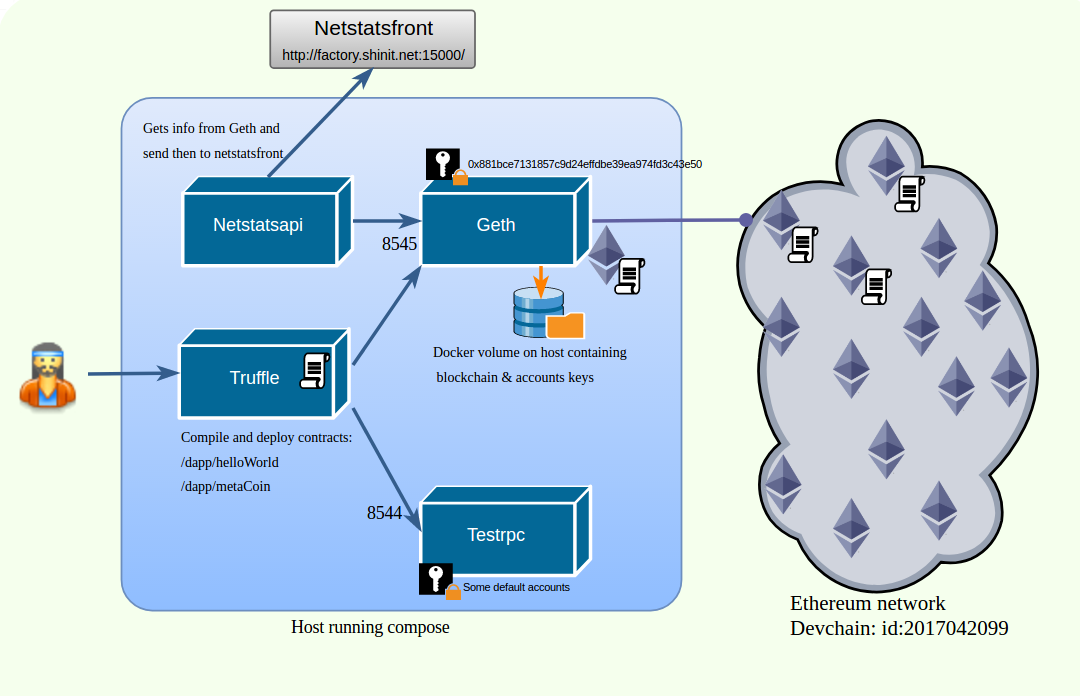
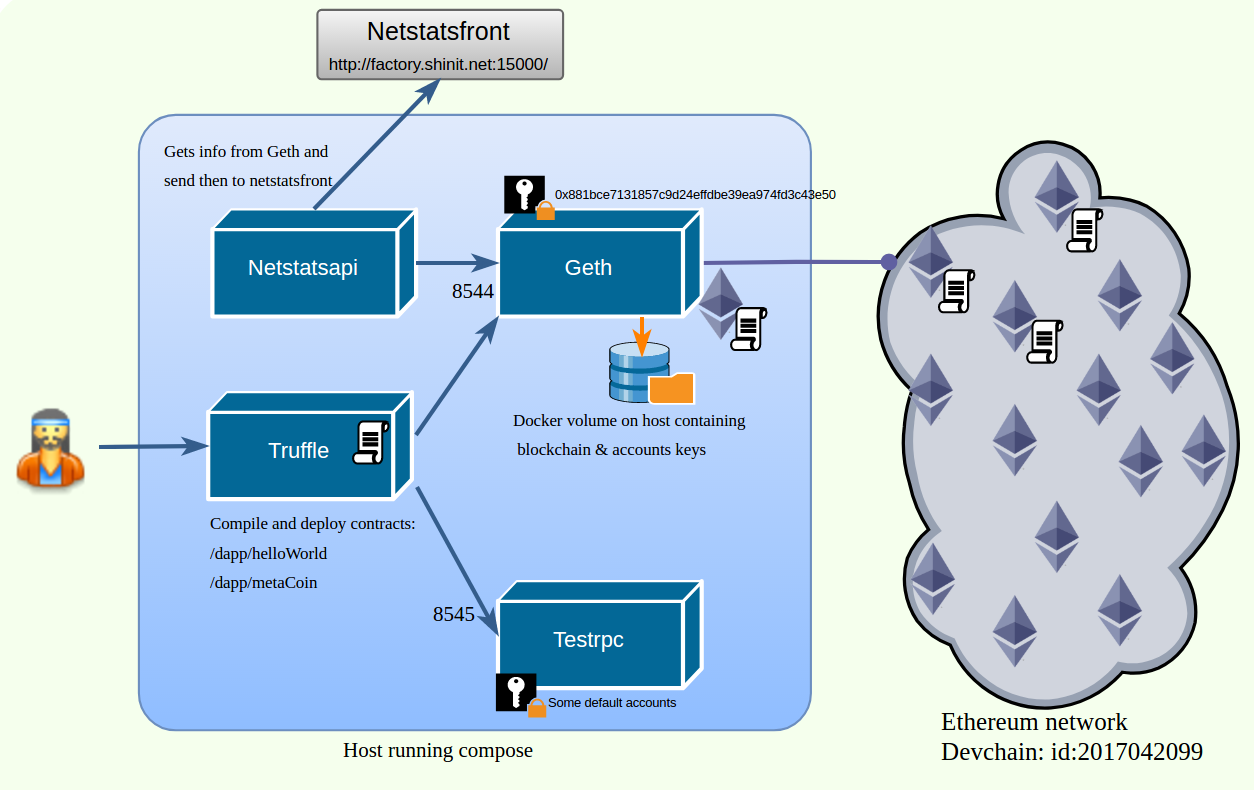
Add pic

Changed region(s): [[0.0, 0.0, 1.0, 0.9655]]

diff --git a/dapp/counter/test/counter.js b/dapp/counter/test/counter.js
@@ -1,0 +1,19 @@
+var Counter = artifacts.require("./Counter.sol");
+
+contract('Counter', function(accounts) {
+  it("Defaut counter should be 0", function() {
+    return Counter.deployed().then(function(instance) {
+      return instance.getCount();
+    }).then(function(value) {
+      assert.equal(value, "0", "Defaut counter should be 0");
+    });
+  });
+  it("One increment from 0 should be 1", function() {
+    return Counter.deployed().then(function(instance) {
+      instance.increment();
+      return instance.getCount();
+    }).then(function(value) {
+      assert.equal(value, "1", "One increment from 0 should be 1");
+    });
+  });
+});

diff --git a/README.md b/README.md
@@ -1,4 +1,9 @@
+# Setup your Ethereum environment with docker-compose and deploy your first smart contract with truffle #
+
+![devchain-infra.png](https://github.com/gregbkr/geth-truffle-docker/raw/master/media/devchain-infra.png)
+
 ## Description
+
 This compose will give you in on command line:
 - **ethereum go-client** (geth) running on port 8544 with
   - A default account, already unlocked
@@ -45,6 +50,14 @@ This compose will give you in on command line:
   - Want to send ether? Edit `remote`, `amountInEther` and comment `exit()`, and run the same script
 
 ## Truffle
+Truffle will compile, test, deploy your smart contract.
+In `/dapp` folder, there are few exemples of easy smart contract:
+- **MetaCoin**: default truffle contract you get when typing `truffle init`. It is a basic coin and you can `getBalance()` or `sendCoin()` token
+- **HelloWorld**: Just one function, display a single message when calling the function `greeter()`
+- **counter**: From 0, increment the counter each time you run `increment()`
+
+Each project has test functions (doing the same tests), in solidity `./test/*.sol` or in javascript `./test/*.js` 
+
 Go in truffle container:  `sudo docker exec -it truffle sh`
 
 Try truffle with **metaCoin**:
